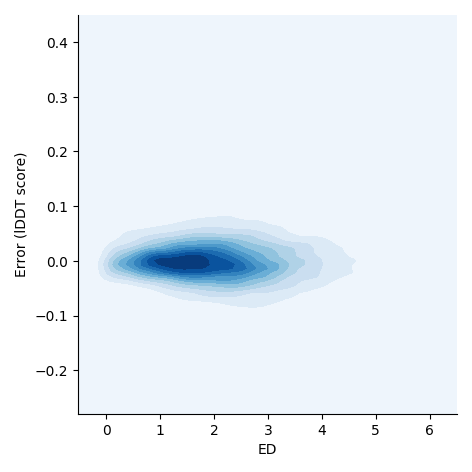
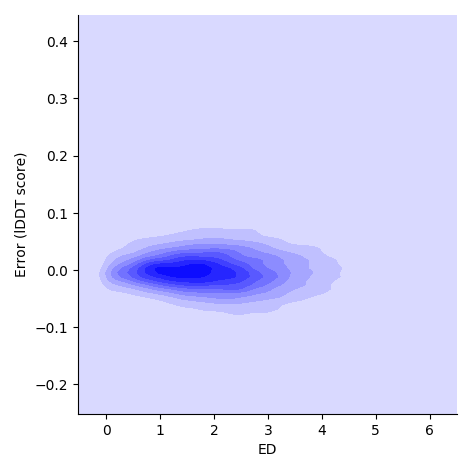
changed back to kde

diff --git a/models/rf.py b/models/rf.py
@@ -60,7 +60,7 @@ def make_kde(x,y, xlabel, ylabel, outname):
     '''Makes a kdeplot and saves it
     '''
     fig, ax = plt.subplots(figsize=(12/2.54,12/2.54))
-    g = sns.kdeplot(x,y, shade = True, kind = 'kde', color = 'b')
+    sns.kdeplot(x,y, shade = True, kind = 'kde', cmap = 'Blues')
     print(pearsonr(x,y))
     ax.set_xlabel(xlabel)
     ax.set_ylabel(ylabel)
